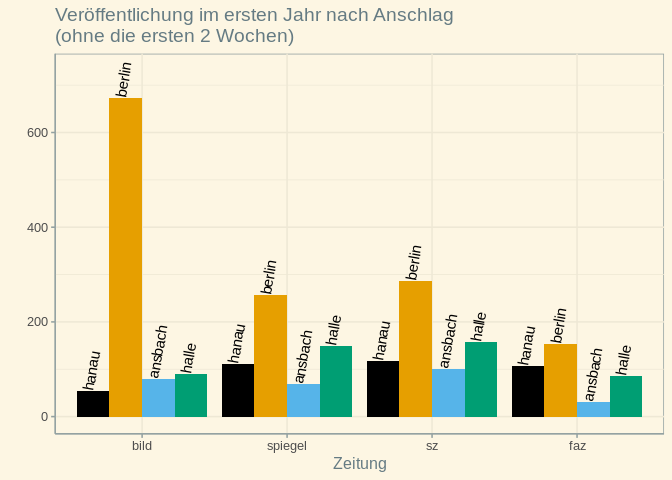
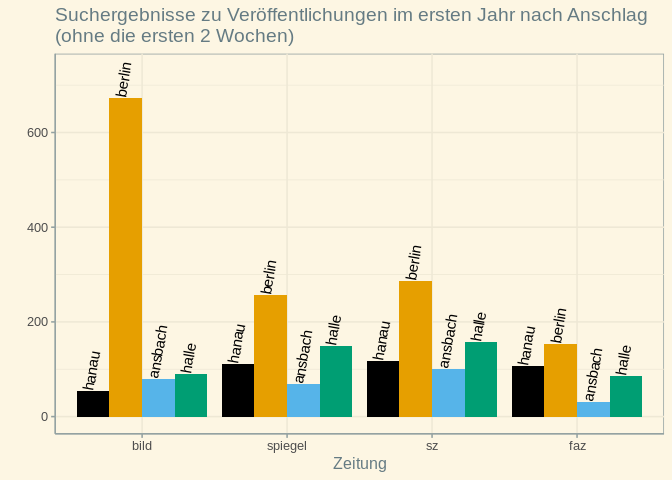
hanau

Changed region(s): [[0.25, 0.0, 0.9688, 0.0625], [0.0938, 0.0, 0.2188, 0.0625]]

diff --git a/tweets.md b/tweets.md
@@ -1,27 +1,28 @@
 Tweets on hanau-media
 ================
 
-Erhält die Aufarbeitung des Hanau-Attentats genug gesellschaftliche
-Aufmerksamkeit? Das ist schwer zu quantifizieren. Es scheint aber, als
-ob große Zeitungen es wenig thematisieren.
+Das rassistische Hanau-Attentat jährt sich. Erhält die Aufarbeitung
+angemessene gesellschaftliche Aufmerksamkeit? Das ist schwer zu
+quantifizieren. Es scheint aber als ob große Zeitungen es weniger
+thematisieren
 
-Ein Daten-🧵 und ein Aufruf Hanau und den Betroffenen mehr Raum zu geben.
+Daten-Thread und Aufruf Hanau und Betroffenen mehr Raum zu geben 🧵
 ![](tweets_files/figure-gfm/plot-1.png)<!-- -->
 
 Anschläge prägen Diskurse in Medien und werden so gesellschaftlich
-aufgearbeitet. Das ist wichtig, besonders wenn systemische Ursachen
-(⇒Rassismus) erkennbar sind. Als Maß für mediale Aufmerksamkeit zähle
-ich Suchergebnisse zu passenden Schlagworten in
-@Bild,@SZ,@FAZ,@derspiegel
+aufgearbeitet. Das ist wichtig, wenn systemische Ursachen (Rassismus)
+erkennbar sind. Als Maß für mediale Aufmerksamkeit zähle ich
+automatisiert Suchergebnisse zu passenden Schlagworten in
+@Bild,@SZ,@FAZ,@spiegel
 
 ![](tweets_files/figure-gfm/plot2-1.png)<!-- -->
 
 Insgesamt listen diese Zeitungen über 710 Veröffentlichungen zu
 Suchwörtern zum rassistischen Anschlag in Hanau<br /> Bild: 122<br />
-SZ: 205<br /> Spiegel: 212<br /> FAZ: 179.<br /><br />
+SZ: 205<br /> Spiegel: 212<br /> FAZ: 179<br /><br />
 
-Traurigerweise listet Bild aber an über 300 Tagen des letzten Jahres
-garnichts zu dem Thema (SZ: 279, Spiegel: 271, FAZ: 274)
+Dabei listet Bild aber an über 300 Tagen des letzten Jahres garnichts zu
+dem Thema (SZ: 279, Spiegel: 271, FAZ: 274)
 
 ![](tweets_files/figure-gfm/plot4b-1.png)<!-- -->
 
@@ -47,21 +48,21 @@ Spiegel: 437 Hits (155 Tage)
 ![](tweets_files/figure-gfm/plot3-1.png)<!-- -->
 ![](tweets_files/figure-gfm/plot3a-1.png)<!-- -->
 
-Caveats: So eine Analyse ist natürlich massiv Lückenhaft:
+Solche Analysen sind immer lückenhaft
 
 <ol>
 
 <li>
 
-Veröffentlichungen unterscheiden sich in Länge, Qualität und
-Ausrichtung. Hier werden alle gleich gezählt.
+Veröffentlichungen unterscheiden sich in Länge, Qualität und Richtung.
+Hier werden alle gleich gezählt.
 
 </li>
 
 <li>
 
-Text-Suche ist nie perfekt. Manche Veröffentlichungen fehlen andere sind
-falsch zugeordnet.
+Textsuche ist imperfekt. Manche Veröffentlichungen fehlen andere sind
+falsch zugeordnet. Unpassende Suchworte könnten alles kaputt machen.
 
 </li>
 
@@ -86,8 +87,10 @@ zusammen.
 
 <hr>
 
-Der Code und weitere erklärende Details sind zugänglich, prüfbar und
-replizierbar unter: github.com/simonheb/hanau-media.<br/> Die Daten sind
-via: simonheb.shinyapps.io/hanau-media/ einsehbar.<br/> Es gibt
-natürlich keine Garantie für die Richtigkeit der Zahlen und Ergänzungen
-und Korrekturen sind willkommen<br/>
+Code und wichtige Details sind zugänglich und prüfbar:
+github.com/simonheb/hanau-media Daten sind einsehbar via:
+simonheb.shinyapps.io/hanau-media/ Updates zum Thread:
+<https://github.com/simonheb/hanau-media/blob/main/tweets.md>
+
+Es gibt natürlich keine Garantie für die Richtigkeit der Zahlen.
+Ergänzungen/Korrekturen sind willkommen
